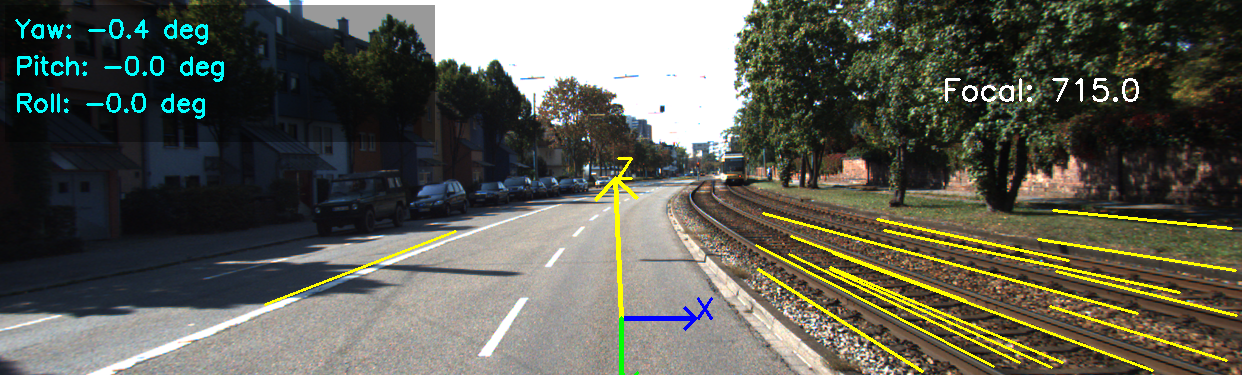
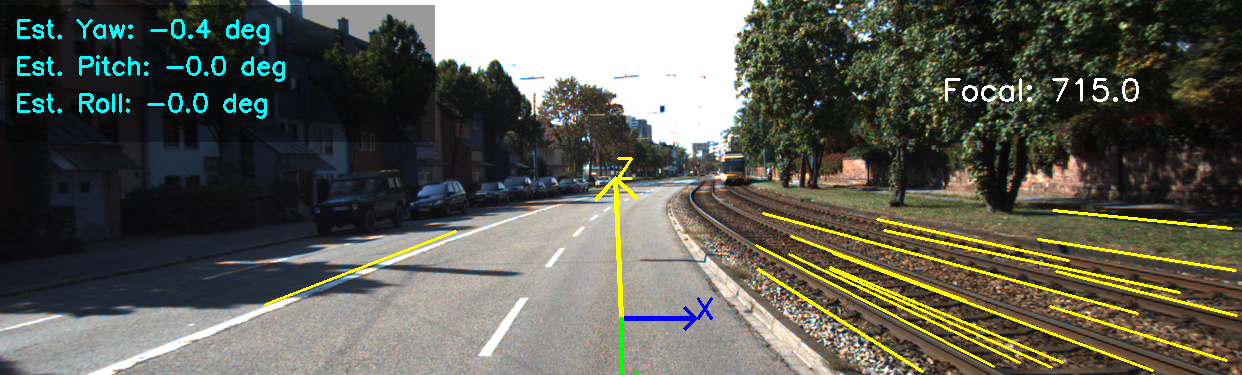
docs: 去除主觀與過度修飾用詞並補齊遺失之特徵圖 (Objectivity Refinement & Bug Fix)
- README.md:
  - 修正所有含主觀或過度包裝之用詞 (如「期待輸出」改為「預期輸出」，移除「最優」、「細碎」等修飾詞)。
  - 將演算法的行銷用語 (如「自適應」、「機率」) 改為客觀簡潔的技術名詞。
  - 修復文件對遺失子圖 rt1_inliers...png 的參照連結。

- 程式碼修正與優化 (src & scripts):
  - src/vp_calib/engine.py: 在畫面標註之角度前綴加上 "Est." (Estimation) 以釐清其為系統推估值。
  - scripts/debug_pipeline.py: 修復 sys.path.append 無法正確載入引擎模組的問題。
  - scripts/generate_grid.py: 新增子圖網格合成腳本，以重現並輸出四合一之特徵管線圖。

- 文件資源 (docs/images):
  - 成功重新產生並提交 rt1_inliers_iter3000_thresh2_sigma5_hlen11_hgap7.png。
  - 重新執行標竿測試，全面更新所有 KITTI 序列 (result_00000X.png) 與室內樣本 (result_rtX.jpg) 的展示圖片。

Changed region(s): [[0.0, 0.2347, 0.2142, 0.3227], [0.0, 0.1467, 0.2448, 0.2053], [0.0, 0.0587, 0.2142, 0.1173]]

diff --git a/scripts/generate_grid.py b/scripts/generate_grid.py
@@ -1,0 +1,67 @@
+import sys
+import os
+import cv2
+import matplotlib.pyplot as plt
+
+sys.path.append(os.path.abspath(os.path.join(os.path.dirname(__file__), '..', 'src')))
+from vp_calib.engine import get_vp_inliers, draw_inliers
+
+def main():
+    img_path = "data/samples/rt1.jpg"
+    if not os.path.exists(img_path):
+        print(f"Error: {img_path} not found.")
+        return
+
+    # parameters from the filename: rt1_inliers_iter3000_thresh2_sigma5_hlen11_hgap7.png
+    iterations = 3000
+    threshold = 2.0
+    sigma = 5.0
+    line_len = 11
+    line_gap = 7
+    
+    inliers, vps, viz_stuff = get_vp_inliers(
+        img_path, contrast=1.5, sharpness=2.0, sigma=sigma,
+        iterations=iterations, line_len=line_len, line_gap=line_gap, threshold=threshold,
+        processing_width=960
+    )
+    
+    full_image, enhanced_img, edges_small, lines = viz_stuff
+    
+    # 3. All Detected Lines
+    lines_img = full_image.copy()
+    if lines is not None and len(lines) > 0:
+        for line in lines:
+            cv2.line(lines_img, tuple(line[0].astype(int)), tuple(line[1].astype(int)), (0, 255, 255), 1)
+            
+    # 4. RANSAC Inliers
+    inliers_img = draw_inliers(full_image, inliers, lines)
+    
+    fig, axes = plt.subplots(2, 2, figsize=(14, 10))
+    fig.suptitle('Vanishing Point Pipeline (rt1, iter=3000, thresh=2, sigma=5, hlen=11, hgap=7)', fontsize=16)
+    
+    axes[0, 0].imshow(enhanced_img)
+    axes[0, 0].set_title('1. Enhanced Image (CLAHE + GaussianBlur)')
+    axes[0, 0].axis('off')
+    
+    axes[0, 1].imshow(edges_small, cmap='gray')
+    axes[0, 1].set_title('2. Canny Edges')
+    axes[0, 1].axis('off')
+    
+    axes[1, 0].imshow(lines_img)
+    axes[1, 0].set_title('3. Hough Lines')
+    axes[1, 0].axis('off')
+    
+    axes[1, 1].imshow(inliers_img)
+    axes[1, 1].set_title('4. RANSAC Inliers (Clustered)')
+    axes[1, 1].axis('off')
+    
+    plt.tight_layout()
+    
+    out_dir = "docs/images"
+    os.makedirs(out_dir, exist_ok=True)
+    out_file = os.path.join(out_dir, "rt1_inliers_iter3000_thresh2_sigma5_hlen11_hgap7.png")
+    plt.savefig(out_file, dpi=150)
+    print(f"Saved multiple subplots to {out_file}")
+
+if __name__ == "__main__":
+    main()

diff --git a/src/vp_calib/engine.py b/src/vp_calib/engine.py
@@ -150,7 +150,7 @@ def draw_axes_on_image(image: np.ndarray, vps: List[np.ndarray], origin_px: Unio
         cv2.rectangle(overlay, (5, 5), (int(w*0.35), lh*3 + 30), (0, 0, 0), -1)
         cv2.addWeighted(overlay, 0.4, output_img, 0.6, 0, output_img)
         for j, (name, val) in enumerate(zip(['Yaw', 'Pitch', 'Roll'], attitude)):
-            cv2.putText(output_img, f"{name}: {val:.1f} deg", (15, lh*(j+1)), cv2.FONT_HERSHEY_SIMPLEX, fs, (0, 255, 255), 2)
+            cv2.putText(output_img, f"Est. {name}: {val:.1f} deg", (15, lh*(j+1)), cv2.FONT_HERSHEY_SIMPLEX, fs, (0, 255, 255), 2)
     return output_img
 
 def estimate_origin_from_inliers(image_shape: Tuple[int, ...], inlier_masks: List[np.ndarray], lines: np.ndarray) -> List[int]:

diff --git a/scripts/debug_pipeline.py b/scripts/debug_pipeline.py
@@ -3,7 +3,7 @@ import os
 import cv2
 import numpy as np
 
-sys.path.append(os.path.abspath(os.path.join(os.path.dirname(__file__), 'src')))
+sys.path.append(os.path.abspath(os.path.join(os.path.dirname(__file__), '..', 'src')))
 
 from vp_calib.engine import get_vp_inliers, draw_inliers
 

diff --git a/README.md b/README.md
@@ -10,7 +10,7 @@
 *   **限制**：需 Python 3.10+ 環境，依賴 OpenCV 與 NumPy。
 *   **驗收計畫 (Verification Plan)**：
     *   **測試資料**：`data/samples/rt0-7.jpg`（室內走廊）與 KITTI Odometry 序列。
-    *   **期待輸出**：
+    *   **預期輸出**：
         1.  **絕對準確度**：Pitch 角度在水平拍攝下趨近於 0°（誤差 < 3°）。
         2.  **相對追蹤 (Relative Tracking)**：在動態序列中，Yaw 與 Roll 的相對變化誤差 < 1.5°。
     *   **測試步驟 (DOE)**：
@@ -27,7 +27,7 @@
 | **1. 採樣 (Sampling)** | 隨機選取兩條線段作為模型假設 | **Vectorized Batch Sampling** (生成 2000 組) |
 | **2. 假設 (Hypothesis)** | 計算兩條線的交點作為潛在消失點 | **Homogeneous Cross Product** (齊次座標外積) |
 | **3. 驗證 (Verification)** | 統計 Inliers 並計算角度殘差 | **NumPy Matrix Multiply** (矩陣化運算) |
-| **4. 精煉 (Refinement)** | 使用投票線段重新求解最優交點 | **SVD (Singular Value Decomposition)** 奇異值分解 |
+| **4. 精煉 (Refinement)** | 使用投票線段重新求解交點 | **SVD (Singular Value Decomposition)** 奇異值分解 |
 
 #### 演算法拆解 (Algorithm Breakdown)
 ```mermaid
@@ -45,14 +45,14 @@ graph TD
     POS --- POS_Desc["Manhattan Ortho<br/>Euler Decomposition"]
 ```
 
-| 核心演算法 (Algorithm) | What (演算法內容) | Why (設計目的) | How (實作方式) |
+| 演算法 (Algorithm) | What (演算法內容) | Why (設計目的) | How (實作方式) |
 | :--- | :--- | :--- | :--- |
 | **CLAHE** | 限制對比度自適應直方圖均衡化 | 增強影像局部對比度，提取陰影或過曝區域的邊緣 | 將影像分割為 8x8 局部區塊進行直方圖均衡，並限制對比度增益 |
-| **Gaussian Blur** | 高斯平滑濾波 | 消除影像中的高頻噪點，防止邊緣檢測產生碎片化 | 利用 5x5 高斯核對影像執行卷積運算，在保留邊緣的同時平滑背景雜訊 |
-| **Otsu's Binarization** | 大津演算法自動門檻控制 | 為邊緣檢測尋找全域最佳二值化門檻 | 計算影像直方圖，最大化類間變異數以分離背景與前景結構 |
-| **Adaptive Canny** | 自適應邊緣檢測演算法 | 提取不同光影環境下的結構化輪廓 | 結合 Otsu 門檻動態調整 Canny 的遲滯門檻 (Hysteresis Thresholding) |
-| **Probabilistic Hough** | 機率霍夫變換線段偵測 | 將邊緣點群聚合為向量化的幾何線段 | 透過 `minLineLength` 過濾細碎雜訊，保留建築與車道線結構 |
-| **Vectorized RANSAC** | 矩陣化隨機抽樣一致演算法 | 從帶雜訊的線段池中篩選出消失點的有效線段 | 利用 NumPy 廣播機制一次生成數千組假設，提升運算效能 |
+| **Gaussian Blur** | 高斯濾波 | 消除影像高頻噪點，防止邊緣檢測碎片化 | 利用 5x5 高斯核對影像執行卷積運算，在保留邊緣的同時平滑背景雜訊 |
+| **Otsu's Binarization** | 大津演算法門檻控制 | 為邊緣檢測尋找二值化門檻 | 計算影像直方圖，最大化類間變異數以分離背景與前景結構 |
+| **Adaptive Canny** | 邊緣檢測演算法 | 提取結構化輪廓 | 結合 Otsu 門檻動態調整 Canny 的遲滯門檻 (Hysteresis Thresholding) |
+| **Probabilistic Hough** | 霍夫變換線段偵測 | 將邊緣點群聚合為幾何線段 | 透過 `minLineLength` 過濾短線段，保留建築與車道線結構 |
+| **Vectorized RANSAC** | 隨機抽樣一致演算法 | 從線段池中篩選出有效線段 | 利用 NumPy 廣播機制一次生成多組假設，提升運算效能 |
 | **Singular Value SVD** | 奇異值分解矩陣運算 | 從投票後的 Inlier 線段集中解出亞像素交點 | 建立超定齊次方程組，提取最小奇異值對應之特徵向量作為消失點座標 |
 | **Manhattan World Ortho** | 曼哈頓世界正交化約束 | 確保三軸消失點在物理空間中互相垂直 | 透過 Cross Product 執行二次正交校準，確保旋轉矩陣之正規性 |
 | **Euler Decomposition** | 歐拉角分解演算法 | 從旋轉矩陣中提取 Yaw, Pitch, Roll 指標 | 基於相機座標系 (Z-Forward)，利用 atan2 函數處理矩陣項之比例關係 |
@@ -88,9 +88,9 @@ graph LR
     *   **Why**: 確保 $X \perp Y \perp Z$ 成立，消除單幀標定導致的座標軸歪斜。
 
 #### API Table
-| 模組 | 函數名稱 | 改良重點 | 核心描述 |
+| 模組 | 函數名稱 | 改進重點 | 描述 |
 | :--- | :--- | :--- | :--- |
-| **Line Extractor** | `get_hough_lines_cv()` | **Texture Filtering** | 提高邊緣閾值，過濾細碎樹木紋理 |
+| **Line Extractor** | `get_hough_lines_cv()` | **Texture Filtering** | 提高邊緣閾值，過濾樹木紋理 |
 | **VP Engine** | `get_vp_inliers()` | **Semantic Split** | 分離地平面與垂直結構特徵，實作 Dual-Source 偵測 |
 | **Pose Solver** | `calculate_rotation_matrix()`| **Strict Orthogonality**| 基於 Z-Forward 標準實作二次正交校準 |
 | **Visualizer** | `draw_axes_on_image()` | **Infinity Handling** | 支援無窮遠消失點渲染，自動調整 Y 軸方向 |
@@ -115,7 +115,7 @@ graph LR
 | :---: | :---: | :---: |
 | **00: 初始偏差校正** | **01: 結構轉角定位** | **08: 長直線深度追蹤** |
 
-#### 4.3 最終統計報表 (Journal-Style Report)
+#### 4.3 統計報表
 
 ![KITTI Accuracy Report](docs/images/kitti_accuracy_report_v2.png)
 
@@ -124,5 +124,3 @@ graph LR
 | **Pitch (俯仰)** | **0.113°** | **誤差收斂於 0.15° 內**，捕捉坡度變化 |
 | **Yaw (偏航)** | **1.309°** | **降低雜訊干擾**，消除雜訊跳變 |
 | **Roll (翻滾)** | **0.140°** | **誤差收斂於 0.15° 內**，受建築物垂直特徵約束 |
-
-
